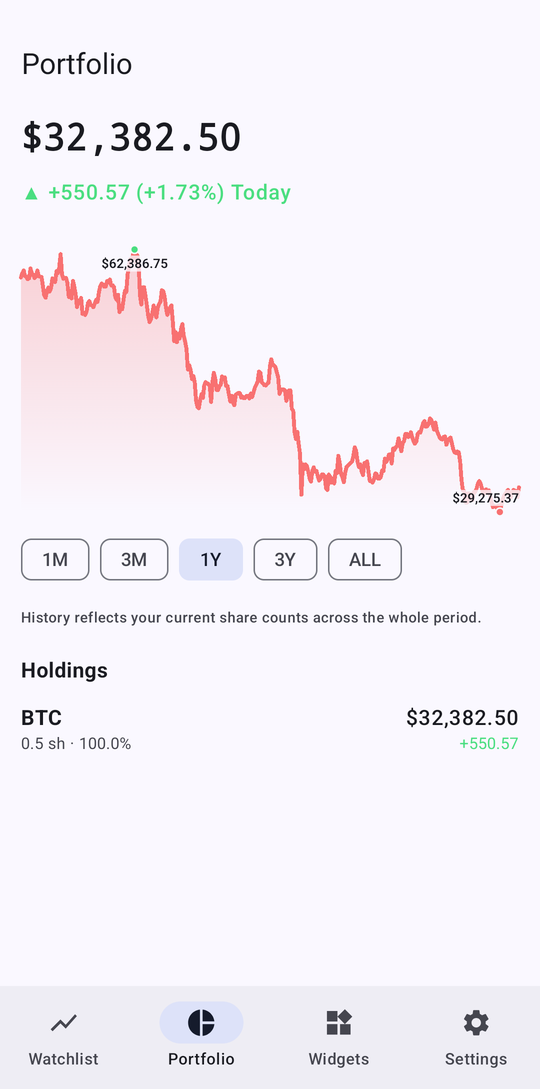
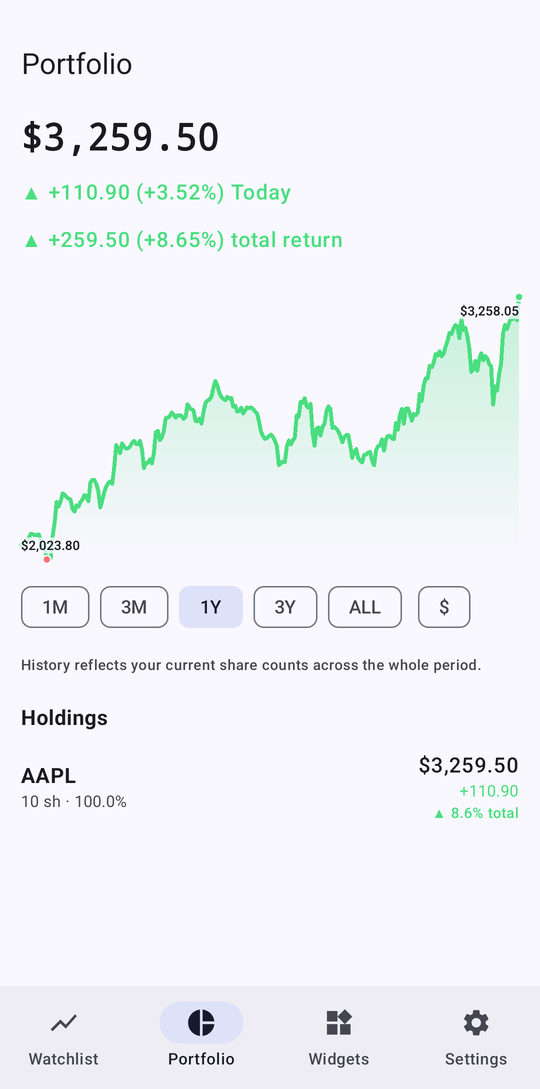
docs: refresh README + screenshots for v0.7.0 features
No-key setup, cost basis / total return, %/$ charts, multiple watchlists, portfolio
widget, and backup/restore; 3x2 screenshot grid and updated data-sources table.

Claude-Session: https://claude.ai/code/session_01AGNtW2nJQLPKKW5rNUqoS8

diff --git a/README.md b/README.md
@@ -11,37 +11,45 @@ no backend to run. Design mockups in `.stitch-mockups/` (Google Stitch, not comm
 
 <table>
   <tr>
-    <td align="center" width="20%"><img src="docs/screenshots/watchlist.png" width="160" alt="Watchlist"></td>
-    <td align="center" width="20%"><img src="docs/screenshots/detail.png" width="160" alt="Ticker detail"></td>
-    <td align="center" width="20%"><img src="docs/screenshots/portfolio.png" width="160" alt="Portfolio"></td>
-    <td align="center" width="20%"><img src="docs/screenshots/vix.png" width="160" alt="VIX fear gauge"></td>
-    <td align="center" width="20%"><img src="docs/screenshots/widgets.png" width="160" alt="Widgets"></td>
+    <td align="center" width="33%"><img src="docs/screenshots/watchlist.png" width="200" alt="Watchlist"></td>
+    <td align="center" width="33%"><img src="docs/screenshots/detail.png" width="200" alt="Ticker detail"></td>
+    <td align="center" width="33%"><img src="docs/screenshots/portfolio.png" width="200" alt="Portfolio"></td>
   </tr>
   <tr>
-    <td align="center"><sub>Watchlist — crypto accented in amber, live sparklines, market-session timeline</sub></td>
-    <td align="center"><sub>Detail — chart with high/low markers, 52-week stats, 1D–3Y ranges</sub></td>
-    <td align="center"><sub>Portfolio — total value reconstructed over time</sub></td>
+    <td align="center"><sub>Watchlist — live stock &amp; crypto prices (no key), named lists, market-session timeline + VIX gauge</sub></td>
+    <td align="center"><sub>Detail — shares &amp; average cost → total return, %/$ chart, high/low markers, 52-week stats</sub></td>
+    <td align="center"><sub>Portfolio — total value, day change, and total return; reconstructed over time</sub></td>
+  </tr>
+  <tr>
+    <td align="center"><img src="docs/screenshots/backup.png" width="200" alt="Backup"></td>
+    <td align="center"><img src="docs/screenshots/vix.png" width="200" alt="VIX fear gauge"></td>
+    <td align="center"><img src="docs/screenshots/widgets.png" width="200" alt="Widgets"></td>
+  </tr>
+  <tr>
+    <td align="center"><sub>Backup — export/import your watchlist, holdings &amp; lists; no API key required</sub></td>
     <td align="center"><sub>VIX "fear gauge" — tap through to the volatility history chart</sub></td>
-    <td align="center"><sub>Widgets — pick a layout, drop it on your home screen</sub></td>
+    <td align="center"><sub>Widgets — single ticker, watchlist, or total-portfolio tile</sub></td>
   </tr>
 </table>
 
 ## Features
 
+- **No API key required** — stock quotes, search, and charts all come from Yahoo (crypto from CoinGecko). A Finnhub key is optional and only adds an extra search source.
 - **Home-screen widgets** (Jetpack Glance)
   - *Single ticker* — one stock or crypto, resizable 2×1 → 2×2 (shows a sparkline when larger)
   - *Watchlist* — all tracked tickers in one tile
+  - *Portfolio* — your total value + today's change in one tile
   - Per-widget config: ticker, show change %, show sparkline, show name, accent color, refresh interval
 - **App**
-  - Watchlist with live prices, colored change, and sparklines (filter All / Stocks / Crypto) — crypto is accented for quick visual separation
-  - Interactive ticker detail: drag-to-scrub area chart with high/low markers, optional volume, and 1D–3Y / ALL ranges; stats include 52-week high/low
-  - **Portfolio** tab: set shares owned per ticker to track total value, reconstructed over time
+  - Watchlist with live prices, colored change, and sparklines — crypto accented in amber; **create multiple named lists** and **drag to reorder**
+  - Interactive ticker detail: drag-to-scrub area chart with a **%/$ toggle** (rebase to percent change), high/low markers, optional volume, and 1D–3Y / ALL ranges; stats include 52-week high/low
+  - **Portfolio** tab: set **shares owned + average cost** per ticker to track total value and **total return** ($ and %), reconstructed over time
+  - **Backup & restore**: export your watchlist, holdings, cost, alerts, and lists to a JSON file and import it back (Settings → Backup)
   - **Price alerts**: above/below thresholds fire Android notifications
   - Market-session timeline on the dashboard (pre-market / regular / after-hours) — holiday-aware and in your phone's timezone
   - **VIX "fear gauge"** on the dashboard with inverse coloring + risk zones; tap through to the volatility history chart (toggle in Settings → Dashboard)
   - Search + add stocks, ETFs, and crypto
   - Material You dynamic color, light/dark/system theme
-  - Finnhub API key editable in **Settings → Data** (no rebuild needed)
   - **In-app updates**: checks GitHub Releases on launch (and on demand in Settings) and installs the new APK
 - Background refresh via WorkManager; last-known prices cached for offline display.
 - Ticker widgets are **reconfigurable** (long-press → reconfigure on Android 12+).
@@ -50,23 +58,26 @@ no backend to run. Design mockups in `.stitch-mockups/` (Google Stitch, not comm
 
 | Data | Source | Key needed |
 |------|--------|-----------|
-| Stock quotes + symbol search | [Finnhub](https://finnhub.io) | Free API key |
-| Crypto price, 24h change, 7d sparkline, charts | [CoinGecko](https://www.coingecko.com/en/api) | No |
-| Stock history + intraday charts | Yahoo Finance chart endpoint | No |
+| Stock quotes, history, intraday charts, symbol search, VIX | Yahoo Finance chart endpoint | No |
+| Crypto price, 24h change, 7d sparkline, charts, search | [CoinGecko](https://www.coingecko.com/en/api) | No |
+| Extra stock symbol search (warrants/odd tickers) | [Finnhub](https://finnhub.io) | Optional free key |
 
-> **Why Yahoo for stock charts?** Finnhub's free tier no longer serves historical candles. Stock
-> detail charts (and widget/watchlist stock sparklines) use Yahoo Finance's public `chart` endpoint,
-> which also provides intraday data (so 1D works). It is an **unofficial** endpoint and can change
-> without notice; failures degrade gracefully to an empty chart. Crypto charts/sparklines come from
-> CoinGecko. (Stooq was the original choice but now blocks non-browser clients behind a JS wall.)
+> **No key needed.** Stock quotes/charts/search come from Yahoo Finance's public `chart` and `search`
+> endpoints (which also provide intraday data, so 1D works, plus the `^VIX` index). They're
+> **unofficial** and can change without notice; failures degrade gracefully to an empty chart. Crypto
+> comes from CoinGecko. A [Finnhub](https://finnhub.io) key is entirely optional — it only supplements
+> symbol search for hard-to-find tickers (warrants, some class shares).
 
 ## Setup
 
-Get a free Finnhub key at <https://finnhub.io/register>. There are two ways to provide it:
+**None required** — install the APK and it works: stocks and crypto both load with no API key.
 
-1. **In the app (recommended, no rebuild):** open **Settings → Data → Finnhub API key**, paste it, and
-   tap **Save key**. It's stored on-device (DataStore) and used immediately by the app and widgets.
-2. **At build time (optional fallback):** copy `local.properties.example` → `local.properties` and set
+A [Finnhub](https://finnhub.io/register) key is entirely optional (it only adds an extra symbol-search
+source). If you want one, either:
+
+1. **In the app:** **Settings → Data → Finnhub API key**, paste it, tap **Save key**. Stored on-device
+   (DataStore).
+2. **At build time:** copy `local.properties.example` → `local.properties` and set
    ```properties
    sdk.dir=/path/to/Android/Sdk
    FINNHUB_API_KEY=your_finnhub_key_here